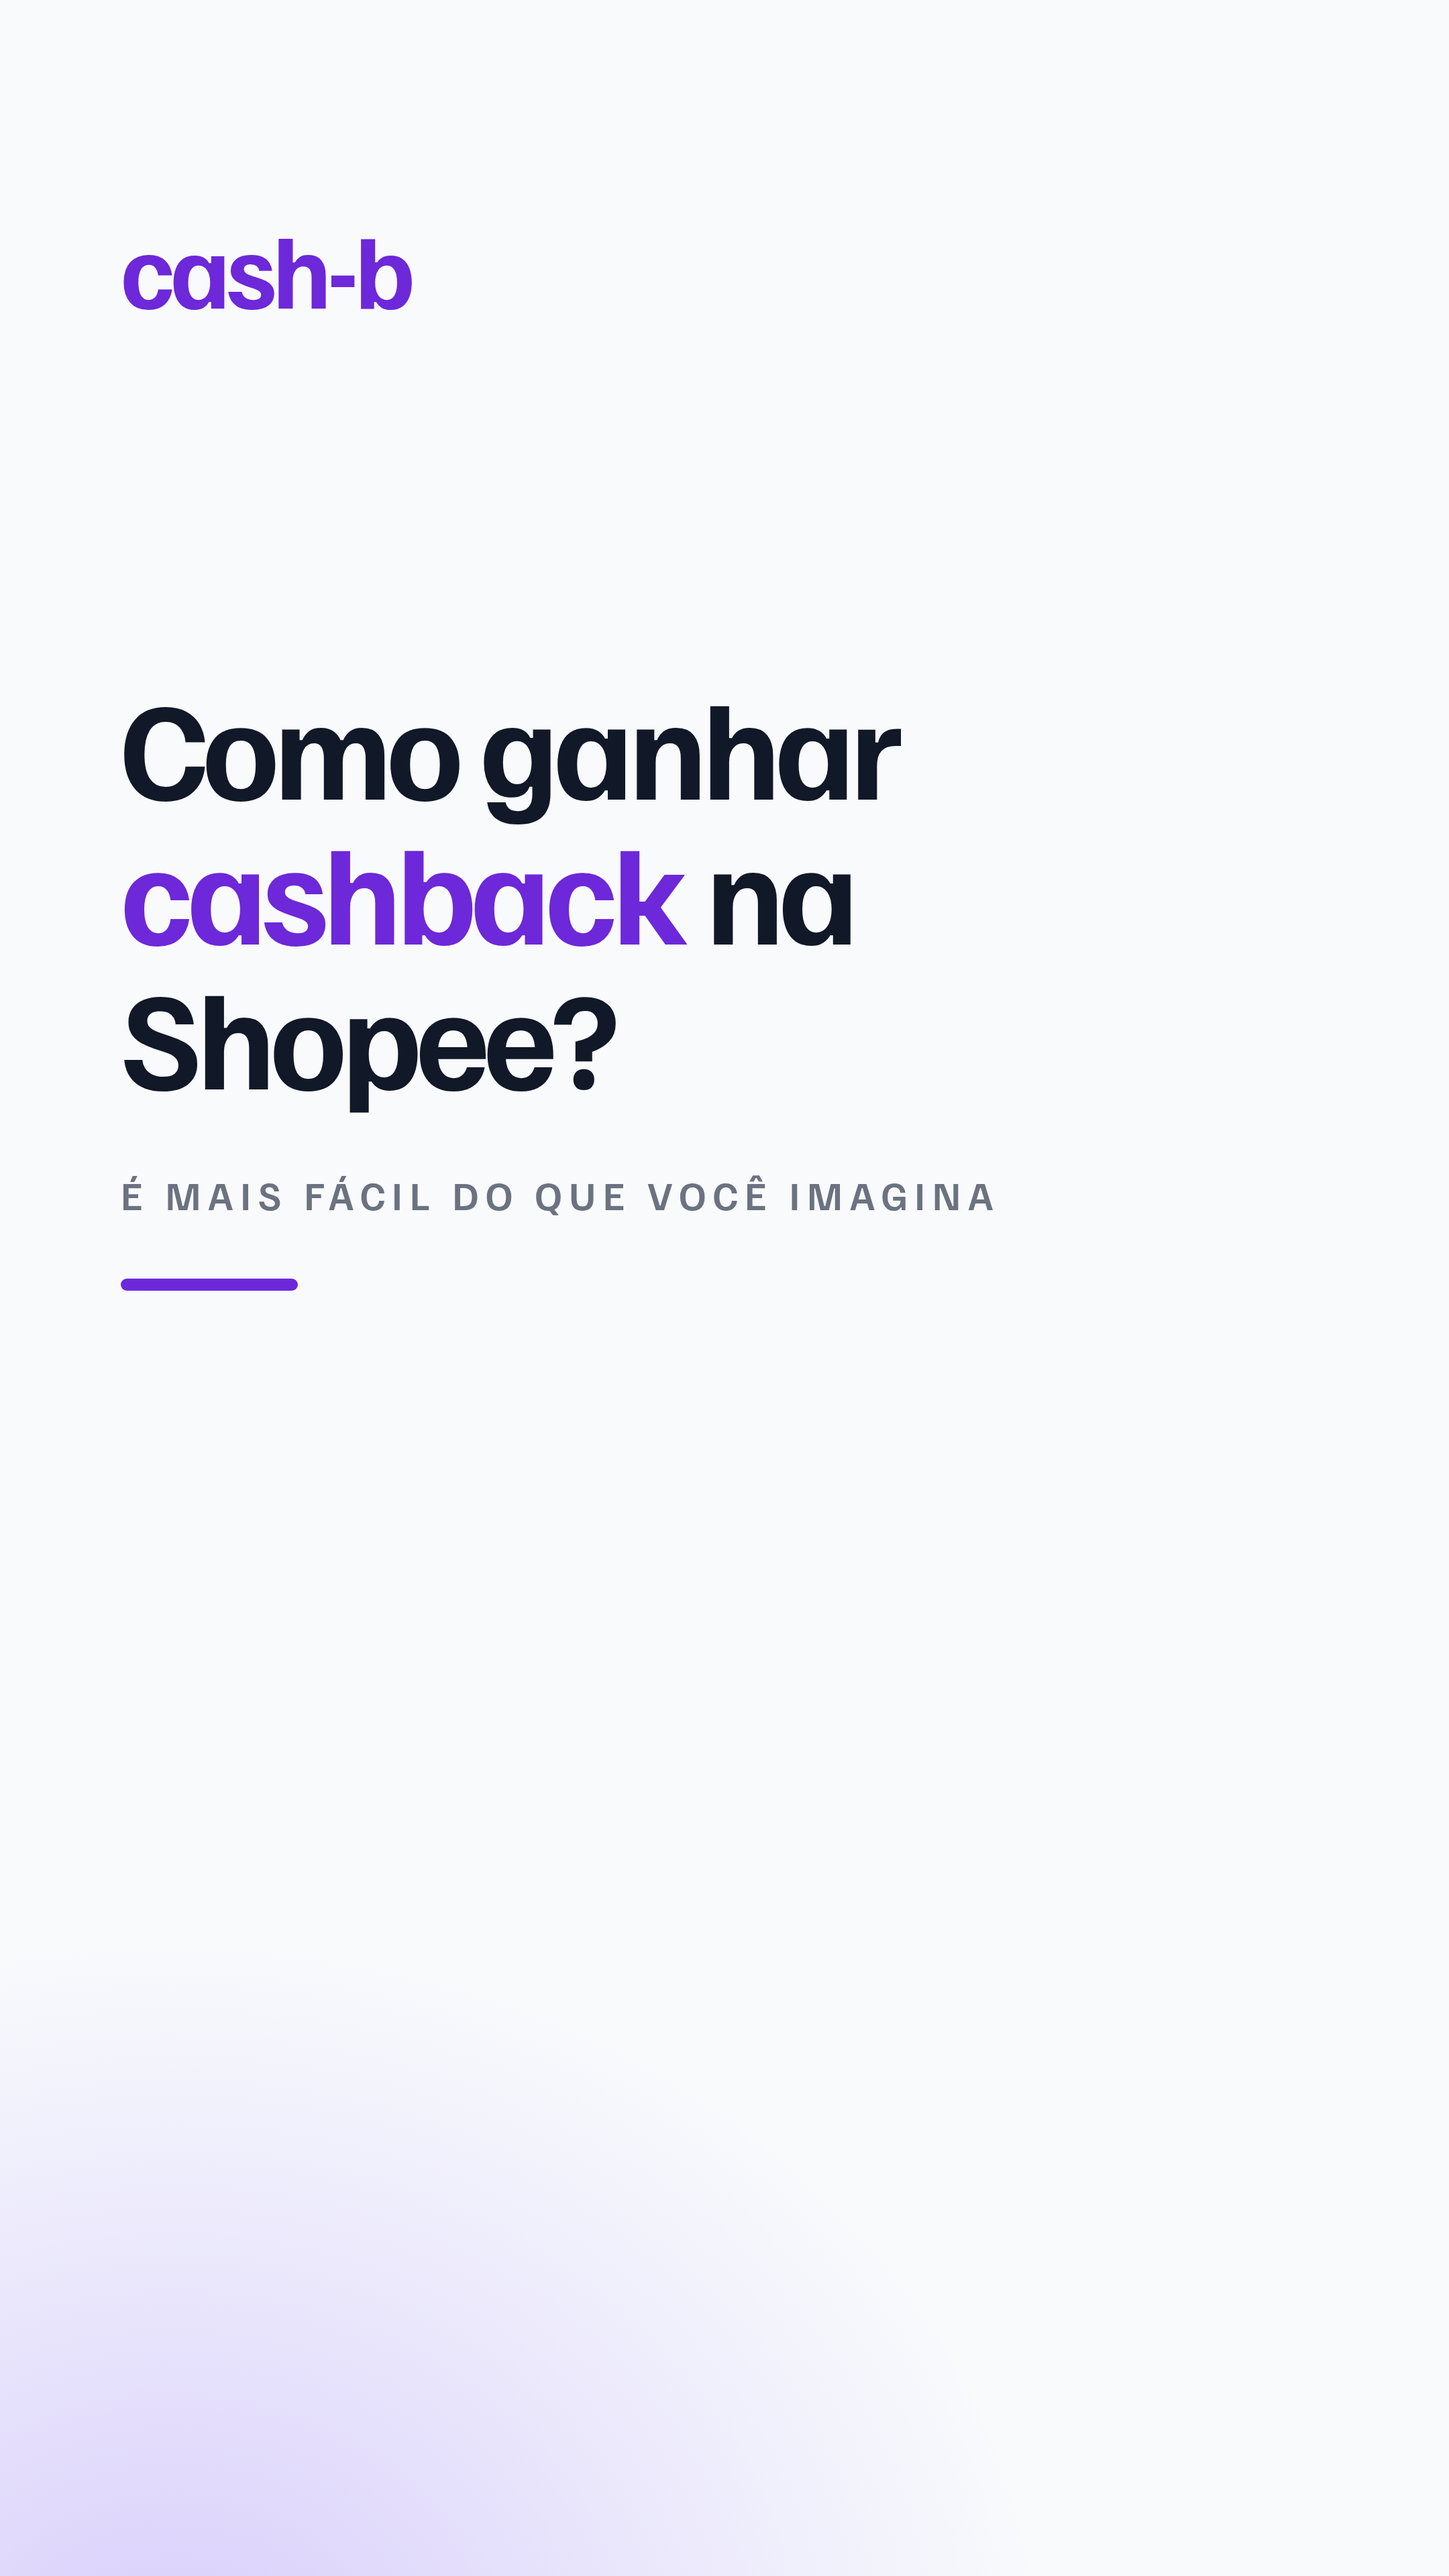
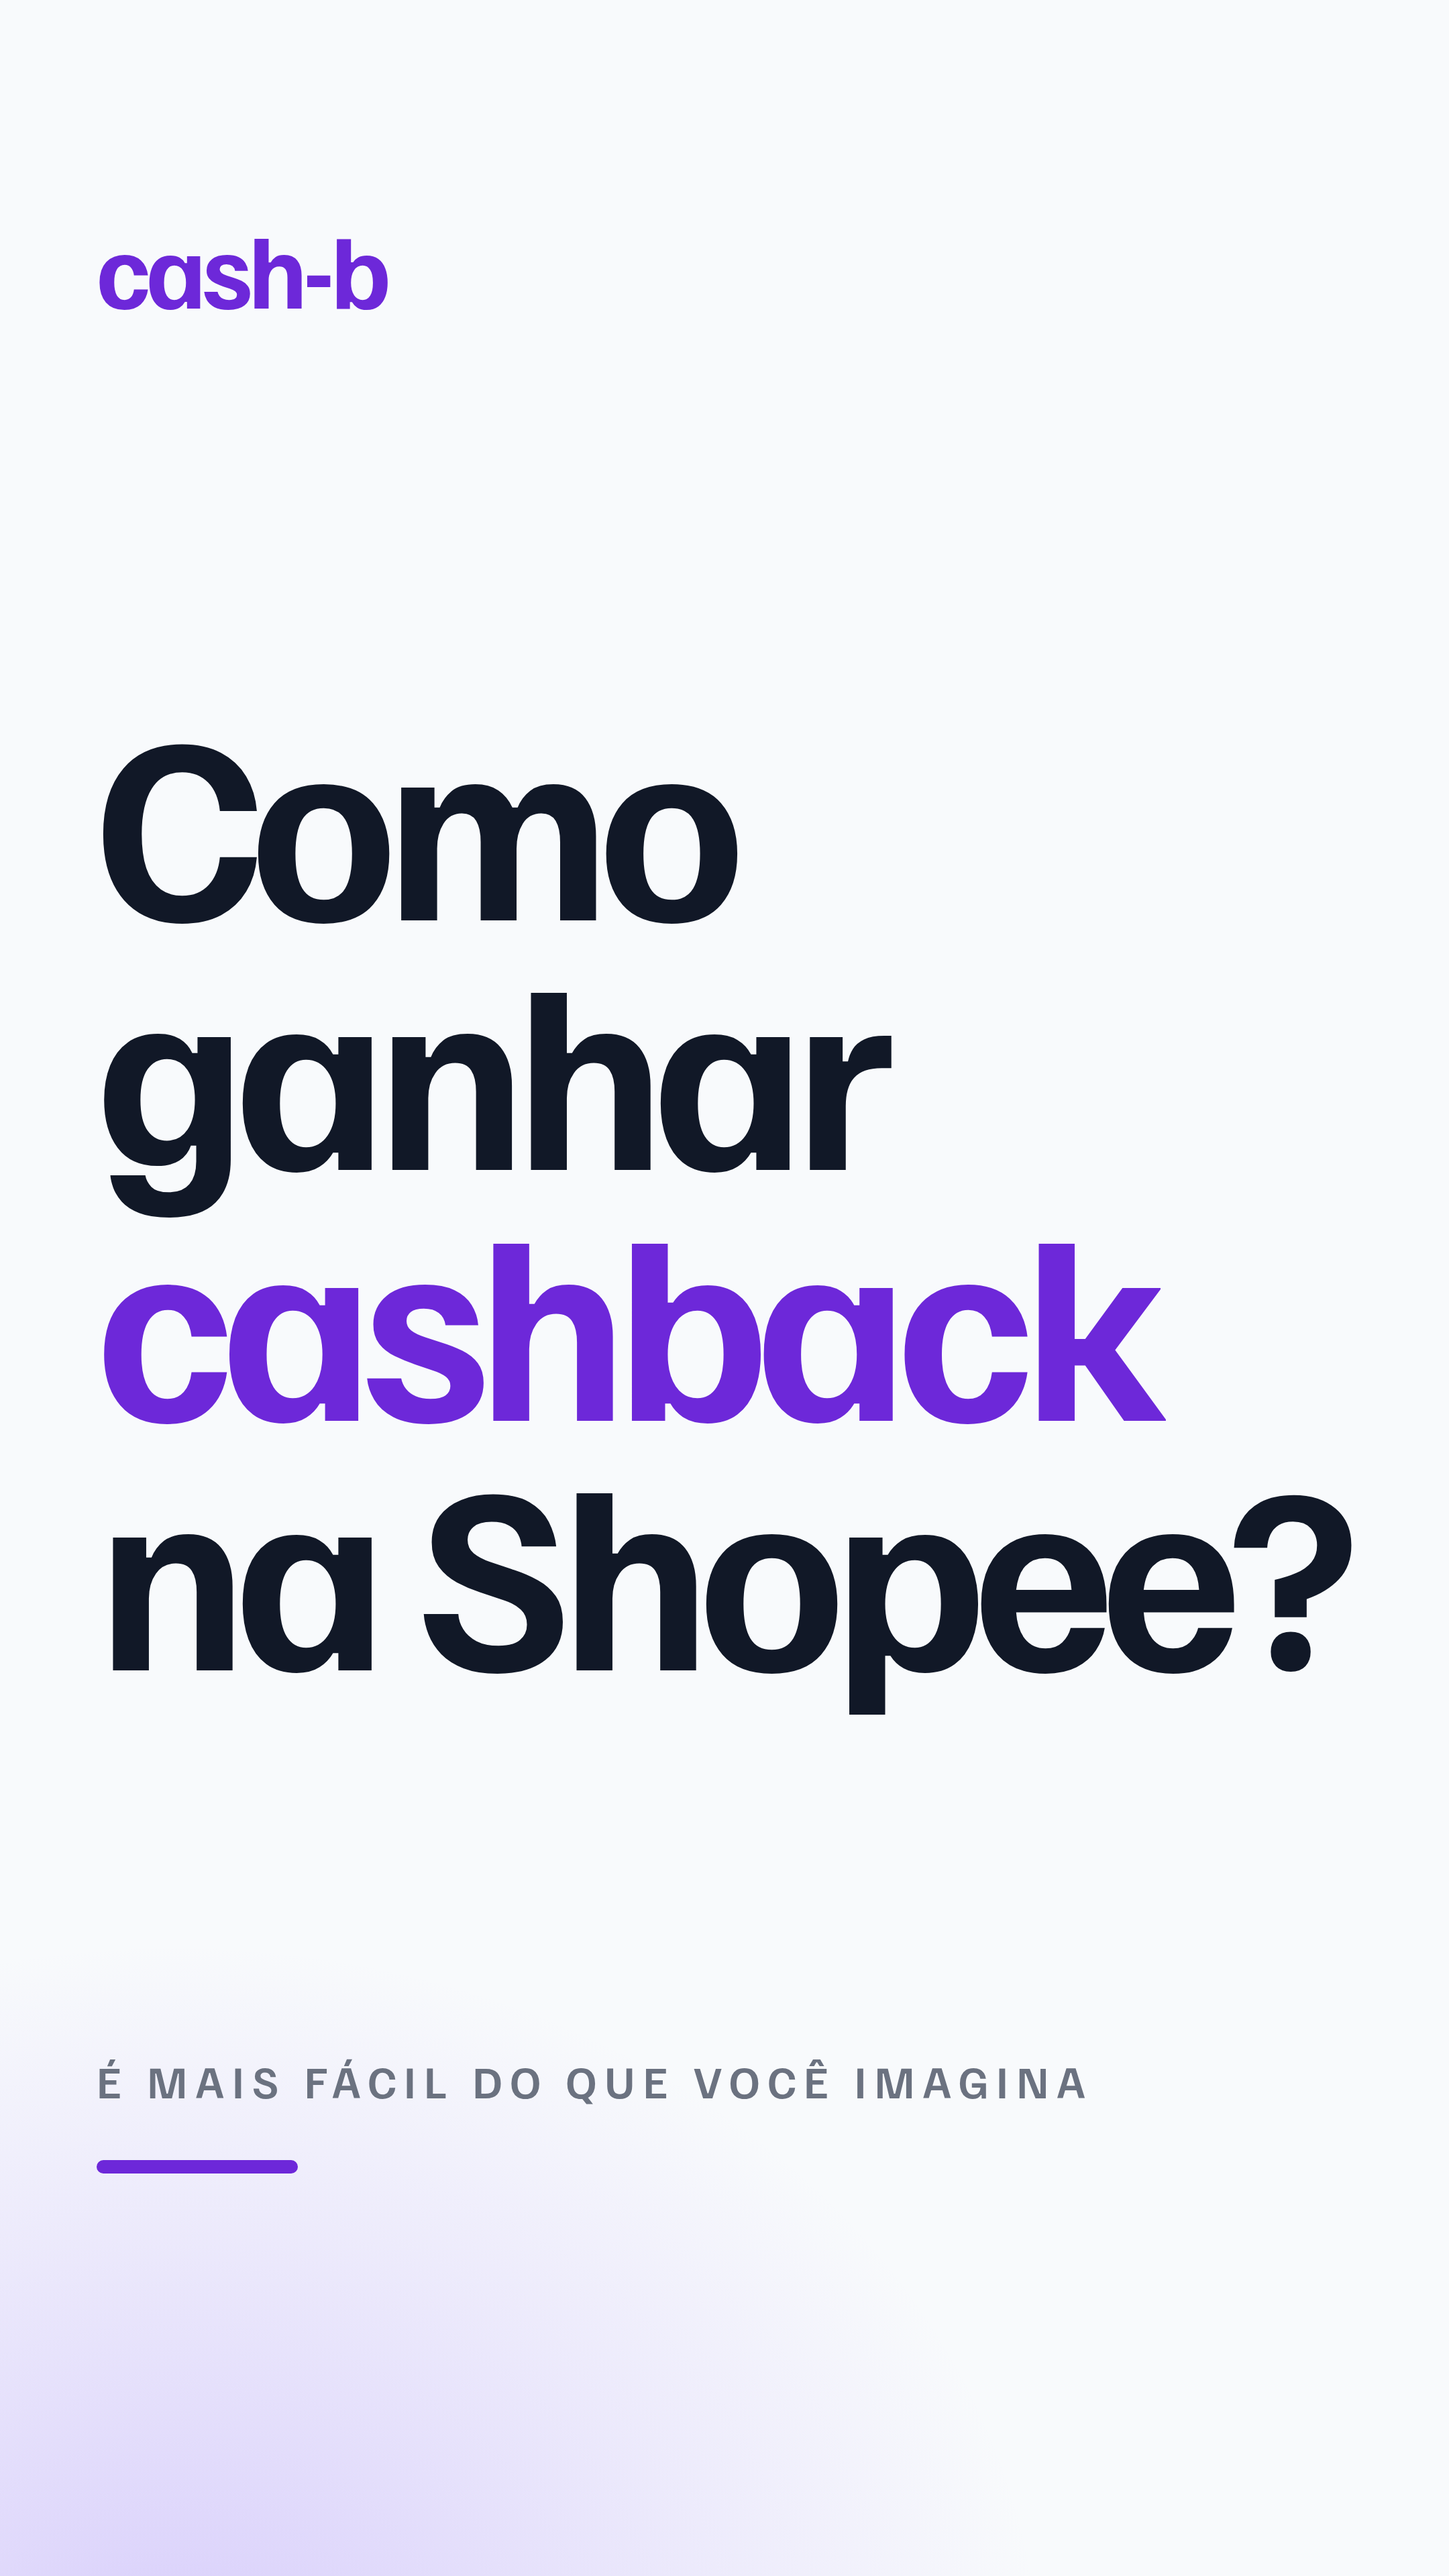
Capa tipografica: titulo dimensionado para preencher o quadro
Pedido do dono do produto: sem o painel e o circulo, o texto em corpo medio
boiava num quadro vazio.

O corpo do titulo deixou de ser escrito na mao. Uma busca binaria no navegador
acha o maior tamanho em que o texto ainda cabe na largura da coluna e nao passa
da altura reservada - de 104px para 198px com o mesmo texto. Numero fixo
obrigaria a reajustar a mao a cada troca de texto, e titulos diferentes nao cabem
no mesmo corpo. A medida e tirada do navegador, nao estimada por contagem de
caracteres: a largura real depende do desenho de cada letra e do letter-spacing
negativo.

Entrelinha em 0.94: a caixa de linha da Familjen reserva bastante espaco acima e
abaixo da tinta, e em corpo de cartaz isso abria um vao entre linhas maior que a
altura das letras.

"na Shopee?" vai travado com nowrap. Solto, o ajuste crescia ate a preposicao
cair sozinha numa linha, e "na" orfao no meio de um cartaz le como erro de
diagramacao. Travado, ele governa o corpo escolhido.

Claude-Session: https://claude.ai/code/session_017WZWLEiMQvHUst5KUYseHY

diff --git a/marketing/instagram/gerar_capa_tipografica.py b/marketing/instagram/gerar_capa_tipografica.py
@@ -1,23 +1,22 @@
-"""Capa de reel tipográfica: só texto sobre o claro, sem foto e sem ilustração.
+"""Capa de reel tipográfica: só texto, ocupando o quadro.
 
 Alternativa à capa com foto (`gerar_capa_reel.py`), para reel em que ninguém aparece ou
 cujo quadro não rende uma boa capa.
 
-Nasceu com um painel roxo e a moeda da marca no pé, e o dono do produto pediu para tirar
-os dois - a peça ficou só com o bloco de texto. A construção que sobrou é o que ele
-aprovou: wordmark no topo, título grande com a palavra-chave em roxo, linha de apoio em
-caixa alta espaçada e a régua curta fechando o bloco.
+A peça é o título. Nasceu com um painel roxo e a moeda da marca no pé, e o dono do
+produto pediu para tirar os dois - sem eles, texto em corpo médio boiava num quadro
+vazio. Agora o título é dimensionado para preencher: wordmark no topo, título grande
+ocupando o miolo, linha de apoio e régua fechando embaixo.
 
-Sem elemento gráfico no pé, o vazio de baixo passa a ser parte da composição e não uma
-sobra. Duas decisões seguram isso:
+**O corpo do título não é escrito na mão.** `_maior_corpo_que_cabe()` procura, por busca
+binária no navegador, o maior tamanho em que o texto ainda cabe na largura sem estourar
+e não passa da altura reservada. Número fixo obrigaria a reajustar à mão a cada troca de
+texto - e "Como ganhar cashback na Shopee?" e "3 formas de ganhar cashback" não cabem no
+mesmo corpo. Trocar TITULO e rodar de novo basta.
 
-- O bloco de texto desce um pouco em relação ao topo, para o peso ficar no meio do
-  quadro em vez de empilhado em cima.
-- Uma mancha lilás difusa sobe do canto inferior esquerdo. É degradê radial, sem borda
-  definida: um círculo, por mais claro que fosse, lia como elemento gráfico cortado ao
-  meio, e o pedido foi tirar os elementos gráficos, não trocá-los de lugar. Sem borda,
-  vira temperatura de fundo - impede a metade de baixo de ler como área não terminada
-  sem colocar nada ali.
+A mancha lilás do pé é degradê radial, sem borda definida: um círculo, por mais claro
+que fosse, lia como elemento gráfico cortado ao meio - e o pedido foi tirar os elementos
+gráficos, não trocá-los de lugar. Sem borda, vira temperatura de fundo.
 
 O nome "Shopee" aparece como texto, e o logotipo dela não aparece: a cash-b é afiliada
 independente (é o que o rodapé do site declara), e arte carregando a marca da Shopee
@@ -45,11 +44,24 @@ OUT_DIR = Path(__file__).resolve().parent / "capa-reel"
 LARGURA, ALTURA = 1080, 1920
 ESCALA = 2
 
-TITULO = 'Como ganhar <span class="grifo">cashback</span> na Shopee?'
+MARGEM = 72
+# Faixas da interface do Instagram: perfil em cima, nome e legenda sobre o vídeo embaixo.
+TOPO, BASE = 150, 300
+# Altura reservada ao título. O resto da área segura fica com o wordmark, a linha de
+# apoio e a régua.
+ALTURA_TITULO = 980
+
+# "na Shopee?" vai travado: solto, o ajuste automático cresce até a preposição cair
+# sozinha numa linha, e "na" órfão no meio de um cartaz lê como erro de diagramação.
+# Travado, ele vira a unidade mais larga do título e passa a governar o corpo escolhido.
+TITULO = (
+    'Como ganhar <span class="grifo">cashback</span> '
+    '<span class="junto">na Shopee?</span>'
+)
 CHAMADA = "é mais fácil do que você imagina"
 
 
-def _pagina() -> str:
+def _pagina(corpo_titulo: int) -> str:
     return f"""<html><head><style>
     @font-face {{ font-family:"Familjen"; src:url(data:font/woff2;base64,{FAMILJEN_B64}) format("woff2"); font-weight:400 700; }}
     * {{ box-sizing:border-box; margin:0; padding:0; }}
@@ -57,39 +69,82 @@ def _pagina() -> str:
         width:{LARGURA}px; height:{ALTURA}px; background:{LIGHT_BG};
         font-family:"Familjen", Arial, sans-serif; overflow:hidden;
     }}
-    body {{ position:relative; }}
-    /* Degradê radial, e não um círculo de borda definida: o círculo, por mais claro que
-       fosse, lia como um elemento gráfico cortado ao meio - e o pedido foi tirar os
-       elementos gráficos, não trocá-los de lugar. Sem borda, isso vira temperatura de
-       fundo: segura a metade de baixo sem colocar nada ali. */
+    body {{
+        position:relative; display:flex; flex-direction:column;
+        justify-content:space-between; padding:{TOPO}px {MARGEM}px {BASE}px;
+    }}
     .mancha {{
         position:absolute; inset:0;
         background:radial-gradient(900px 760px at 12% 104%,
             rgba(167,139,250,0.40) 0%, rgba(167,139,250,0.14) 45%, rgba(167,139,250,0) 72%);
     }}
     .marca {{
-        position:absolute; top:150px; left:90px;
-        font-size:78px; font-weight:700; letter-spacing:-0.04em; color:{BRAND_PRIMARY};
+        position:relative; font-size:78px; font-weight:700;
+        letter-spacing:-0.04em; color:{BRAND_PRIMARY};
     }}
-    /* Bloco de texto abaixo do topo, não colado nele: sem nada no pé do quadro, o peso
-       precisa cair mais para o meio, senão a capa fica empilhada em cima e oca embaixo. */
-    .texto {{ position:absolute; top:500px; left:90px; right:90px; }}
-    .titulo {{ font-size:104px; font-weight:700; line-height:1.04; letter-spacing:-0.04em; color:{DARK_BG}; }}
+    /* Entrelinha abaixo de 1: a caixa de linha da Familjen reserva bastante espaço
+       acima e abaixo da tinta, e em corpo de cartaz isso abre um vão entre as linhas
+       maior que a altura das letras. Apertar para 0.94 junta o bloco sem encostar
+       ascendente em descendente. */
+    #titulo {{
+        position:relative; font-size:{corpo_titulo}px; font-weight:700;
+        line-height:0.94; letter-spacing:-0.045em; color:{DARK_BG};
+    }}
     .grifo {{ color:{BRAND_PRIMARY}; white-space:nowrap; }}
+    .junto {{ white-space:nowrap; }}
+    .rodape {{ position:relative; }}
     .chamada {{
-        margin-top:44px; font-size:30px; font-weight:600; letter-spacing:0.18em;
+        font-size:34px; font-weight:600; letter-spacing:0.18em;
         text-transform:uppercase; color:{MUTED}; line-height:1.5;
     }}
-    .regua {{ margin-top:40px; width:132px; height:9px; border-radius:99px; background:{BRAND_PRIMARY}; }}
+    .regua {{ margin-top:34px; width:150px; height:10px; border-radius:99px; background:{BRAND_PRIMARY}; }}
     </style></head><body>
         <div class="mancha"></div>
         <div class="marca">{MARCA}</div>
-        <div class="texto">
-            <div class="titulo">{TITULO}</div>
+        <div id="titulo">{TITULO}</div>
+        <div class="rodape">
             <div class="chamada">{CHAMADA}</div>
             <div class="regua"></div>
         </div>
     </body></html>"""
+
+
+def _maior_corpo_que_cabe(pagina, minimo=80, maximo=300) -> int:
+    """Busca binária pelo maior corpo de fonte que ainda cabe.
+
+    Duas restrições. A largura é a que quebra a peça: uma palavra mais larga que a
+    coluna vaza para fora do quadro e sai cortada no arquivo. A altura é o limite do
+    espaço reservado ao título, para não invadir o rodapé.
+
+    Medir no navegador em vez de estimar por contagem de caracteres: a largura real
+    depende do desenho de cada letra e do letter-spacing negativo, e "Shopee?" e
+    "cashback" têm o mesmo número de letras com larguras bem diferentes.
+    """
+    largura_coluna = LARGURA - MARGEM * 2
+
+    def cabe(corpo: int) -> bool:
+        pagina.set_content(_pagina(corpo))
+        return pagina.evaluate(
+            """([largura, altura]) => {
+                const el = document.getElementById("titulo");
+                const r = document.createRange();
+                let maior = 0;
+                for (const no of el.childNodes) {
+                    r.selectNodeContents(no);
+                    for (const caixa of r.getClientRects()) maior = Math.max(maior, caixa.width);
+                }
+                return maior <= largura && el.offsetHeight <= altura;
+            }""",
+            [largura_coluna, ALTURA_TITULO],
+        )
+
+    while minimo < maximo:
+        meio = (minimo + maximo + 1) // 2
+        if cabe(meio):
+            minimo = meio
+        else:
+            maximo = meio - 1
+    return minimo
 
 
 def gerar():
@@ -100,11 +155,13 @@ def gerar():
         pagina = navegador.new_page(
             viewport={"width": LARGURA, "height": ALTURA}, device_scale_factor=ESCALA
         )
-        pagina.set_content(_pagina())
+        corpo = _maior_corpo_que_cabe(pagina)
+        pagina.set_content(_pagina(corpo))
         pagina.wait_for_timeout(300)
         pagina.screenshot(path=str(destino))
         navegador.close()
     print("gerado:", destino.relative_to(REPO_ROOT), f"({LARGURA*ESCALA}x{ALTURA*ESCALA})")
+    print(f"corpo do título escolhido: {corpo}px")
 
 
 if __name__ == "__main__":
